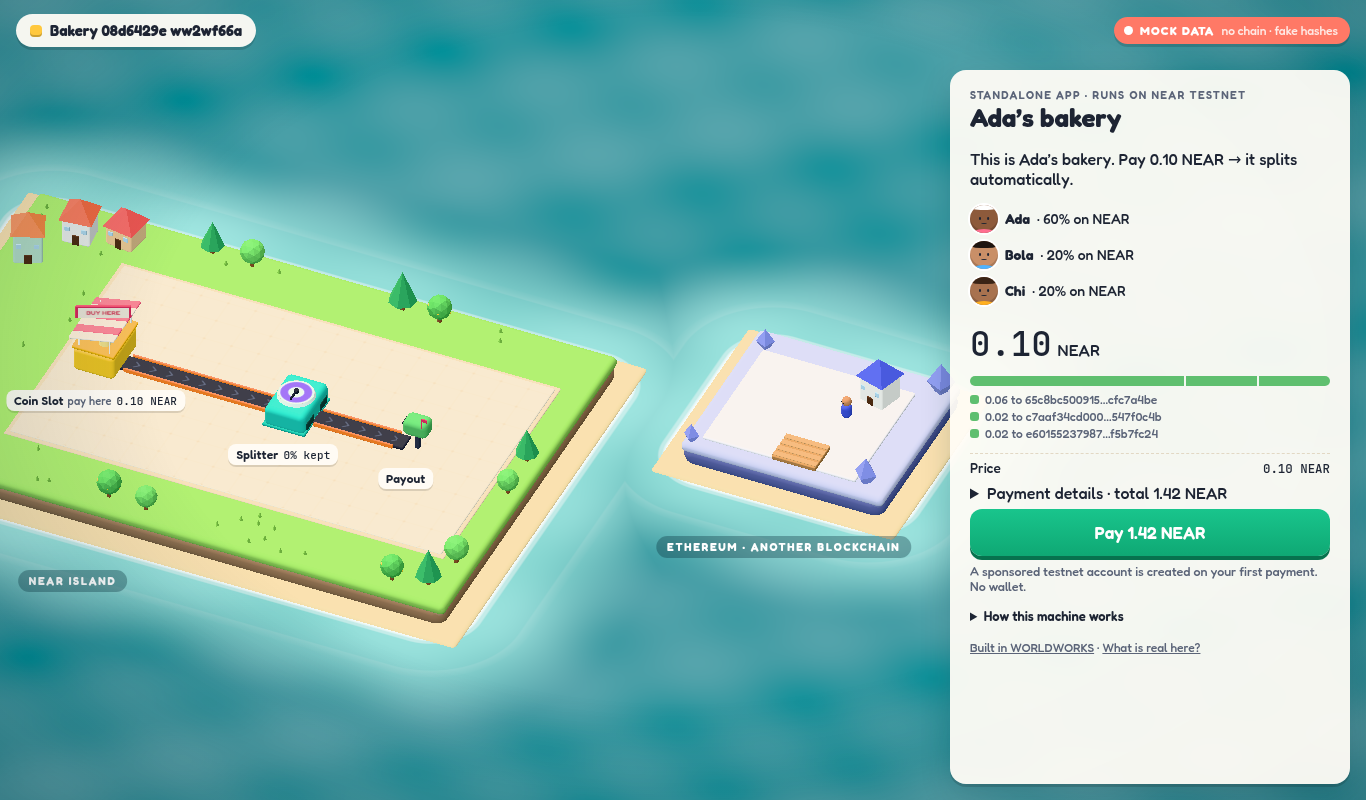
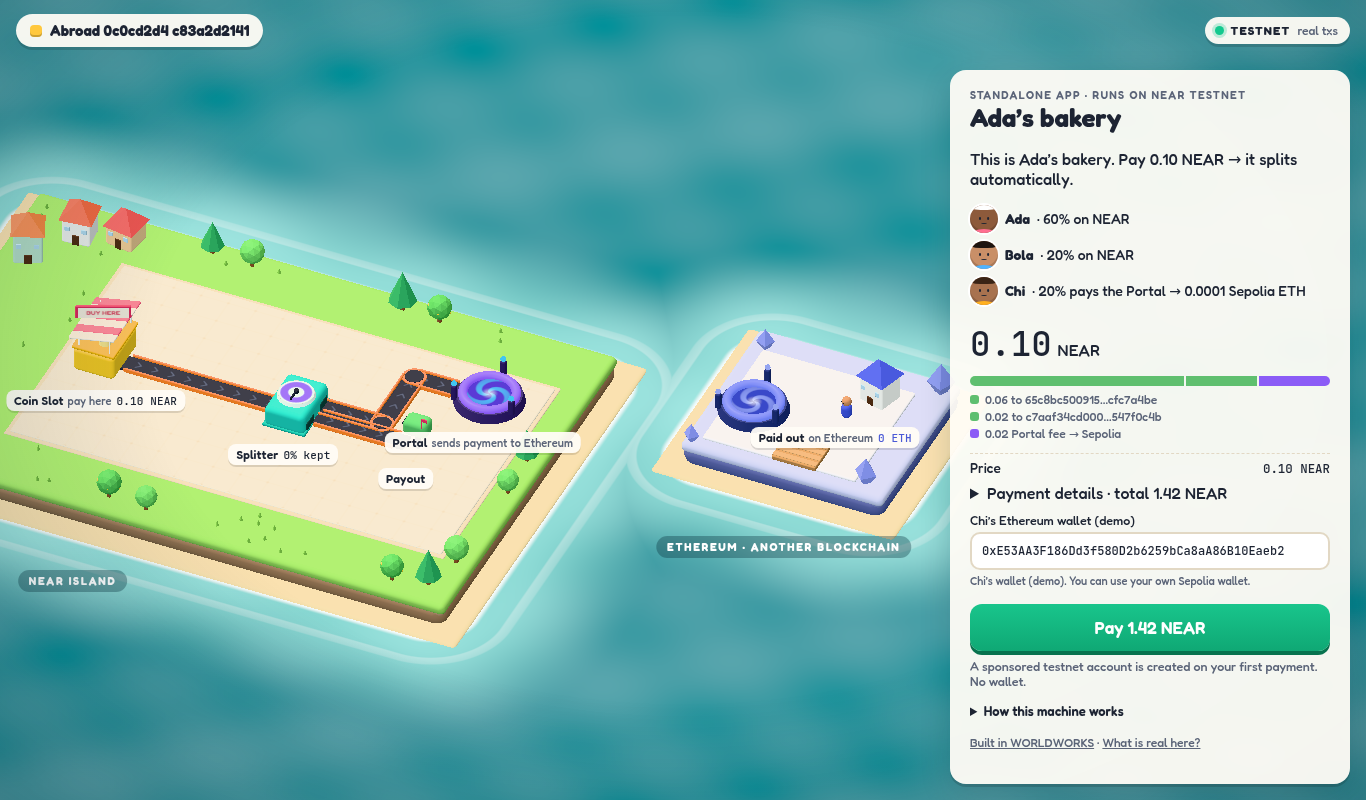
GAME-2: live job 2 passes on production after Chi wallet init

diff --git a/docs/EVIDENCE-game2.md b/docs/EVIDENCE-game2.md
@@ -961,3 +961,10 @@ Questions for five readers: “Whose problem are you solving?”, “What do the
 ## Limits / honest list
 
 **Live job 2 is blocked by the observed gas mismatch above; its live suite has five HTTP-error console entries and is not an acceptance pass.** Job 4 (rent jar) is optional and not implemented. Jobs use fixed sockets rather than arbitrary graph wiring. Real job 3 shipment is not exercised under the one-live-job constraint. If an approval’s response is completely lost and the read API cannot reconstruct its historical direct payout effect, the UI retains a neutral unknown state and explorer link; it does not infer Dayo was paid or submit another approval. A reload during session/publication exposes a retryable error; an existing publication is checked and reused before a new sale. No deployment is performed, so local new shop links are not claimed to already exist on the production site.
+
+## Live job 2 — PASS after recipient initialization (orchestrator, 2026-11-13)
+Cause of the earlier revert: on current Sepolia a plain transfer to a never-used address estimated ~204,600 gas, while the Portal signs a fixed 21,000. Funding Chi's address once (0.1 Sepolia ETH from the project owner) brought the estimate to 21,000 (`0x5208`). The game's `eth_estimateGas` preflight still blocks sales to fresh addresses.
+
+`UI_BASE=https://worldworks.vercel.app UI_ADVANCE=1 node ui-tests/game2-live.mjs` against **production**: **PASS**, exactly one seeded-customer order, 0 console errors.
+- NEAR order: https://testnet.near.rocks/tx/HPPU7EhYDk28S7Lgt3gbPPQPJqNbdXakpzuh9PjLfHx4
+- Payout 30 to Chi, confirmed by ethpandaops + tenderly at 3 blocks: https://sepolia.etherscan.io/tx/0x91771257110a6009650943f093da26de1e1031147f3e122547b52b78b49cc774
